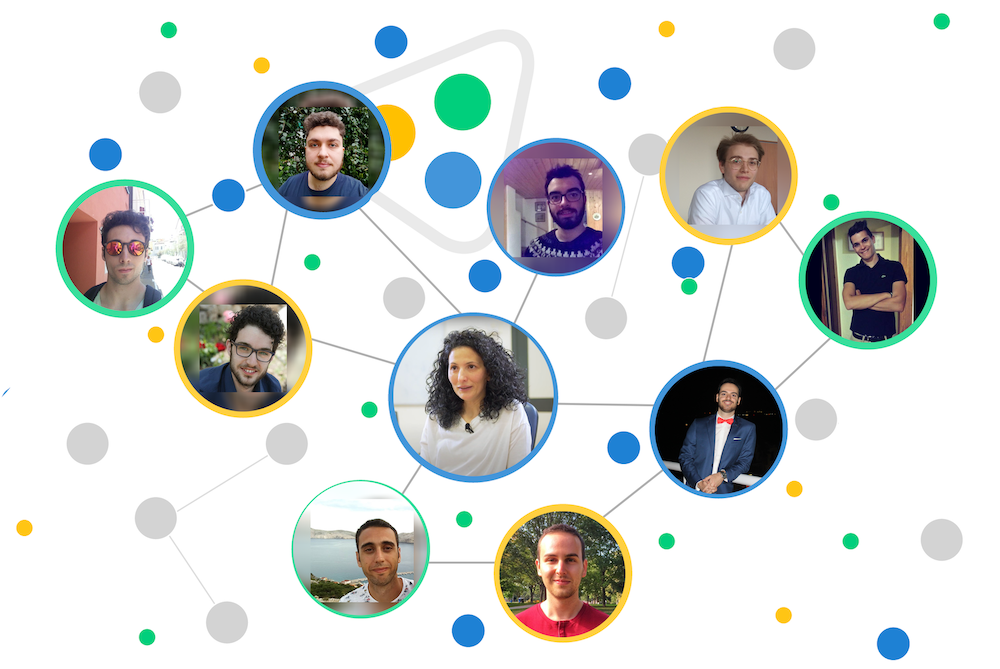
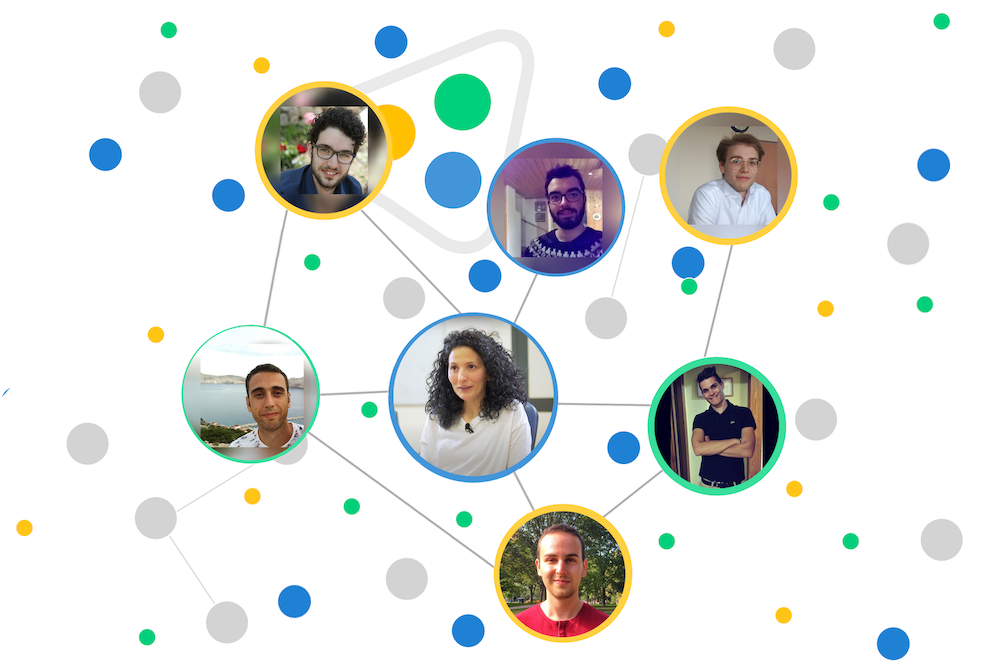
remove past members

diff --git a/pages/people.html b/pages/people.html
@@ -459,152 +459,6 @@
             </div>
           </div>
         </div>
-        <div class="col-12 col-md-6 col-lg-4">
-          <div class="card">
-            <img
-              src="../img/people/GCerri.JPG"
-              class="card-img-top"
-              alt="Member image"
-            />
-            <div class="card-body">
-              <div class="accordion" id="accordion8">
-                <div class="accordion-item">
-                  <h2 class="accordion-header" id="heading8">
-                    <button
-                      class="accordion-button collapsed"
-                      type="button"
-                      data-mdb-toggle="collapse"
-                      data-mdb-target="#collapse8"
-                      aria-expanded="true"
-                      aria-controls="collapse8"
-                    >
-                    <h2>Guglielmo Cerri</h2>
-                    Researcher
-                    </button>
-                  </h2>
-                  <div
-                    id="collapse8"
-                    class="accordion-collapse collapse hide"
-                    aria-labelledby="heading8"
-                    data-mdb-parent="#accordion8"
-                  >
-                    <div class="accordion-body">
-                      <a href="https://www.di.univr.it/?ent=persona&id=55826" 
-                      rel="noreferrer" target="_blank">
-                        Guglielmo Cerri
-                      </a> is a researcher at the University of Verona, 
-                      who joined InfOmics Lab in November 2020. His research 
-                      focuses on Imaging Genetics, specifically on finding new 
-                      potential genetic biomarkers for different neurodegenerative 
-                      diseases using omics data analysis and machine learning 
-                      methods. Currently, he participates to the TUBE-project, 
-                      sponsored by European Research Council. In his free time 
-                      he enjoys reading, playing chess, working out and, more 
-                      recently, photography.
-                    </div>
-                  </div>
-                </div>
-              </div>
-            </div>
-          </div>
-        </div>
-        <div class="col-12 col-md-6 col-lg-4">
-          <div class="card">
-            <img
-              src="../img/people/GMotterle.jpg"
-              class="card-img-top"
-              alt="Member image"
-            />
-            <div class="card-body">
-              <div class="accordion" id="accordion9">
-                <div class="accordion-item">
-                  <h2 class="accordion-header" id="heading9">
-                    <button
-                      class="accordion-button collapsed"
-                      type="button"
-                      data-mdb-toggle="collapse"
-                      data-mdb-target="#collapse9"
-                      aria-expanded="true"
-                      aria-controls="collapse9"
-                    >                    
-                    <h2>Giovanni Motterle</h2>
-                    Researcher
-                    </button>
-                  </h2>
-                  <div
-                    id="collapse9"
-                    class="accordion-collapse collapse hide"
-                    aria-labelledby="heading9"
-                    data-mdb-parent="#accordion9"
-                  >
-                    <div class="accordion-body">
-                      <a href="https://www.di.univr.it/?ent=persona&id=61826" 
-                      rel="noreferrer" target="_blank">
-                        Giovanni Motterle
-                      </a> joined the lab in November 2020 as a 
-                      research fellow. He received his bachelor's degree in 
-                      computer science from the University of Padova and his 
-                      master's degree in medical bioinformatics from the University 
-                      of Verona. His research activities are focused on the 
-                      development of computational methods for transcriptomics 
-                      and spatial transcriptomics data analysis. In his free 
-                      time he enjoys reading, gardening and hiking.
-                    </div>
-                  </div>
-                </div>
-              </div>
-            </div>
-          </div>
-        </div>
-        <div class="col-12 col-md-6 col-lg-4">
-          <div class="card">
-            <img
-              src="../img/people/LParmigiani.jpg"
-              class="card-img-top"
-              alt="Member image"
-            />
-            <div class="card-body">
-              <div class="accordion" id="accordion10">
-                <div class="accordion-item">
-                  <h2 class="accordion-header" id="heading10">
-                    <button
-                      class="accordion-button collapsed"
-                      type="button"
-                      data-mdb-toggle="collapse"
-                      data-mdb-target="#collapse10"
-                      aria-expanded="true"
-                      aria-controls="collapse10"
-                    >
-                    <h2>Luca Parmigiani</h2>
-                    Researcher
-                    </button>
-                  </h2>
-                  <div
-                    id="collapse10"
-                    class="accordion-collapse collapse hide"
-                    aria-labelledby="heading10"
-                    data-mdb-parent="#accordion10"
-                  >
-                    <div class="accordion-body">
-                      <a href="https://www.di.univr.it/?ent=persona&id=53344&lang=it" 
-                      rel="noreferrer" target="_blank">
-                        Luca Parmigiani
-                      </a> is currently a research fellow at the 
-                      Lymphoma Genomics group at IOR (Institute of Onchology 
-                      Research in Bellinzona, Switzerland), under the 
-                      supervision of Dr. Francesco Bertoni. He obtained both 
-                      his MSc in Medical Bioinformatics and his BSc in 
-                      Bioinformatics from the University of Verona. His 
-                      research is focused on data mining and integration of 
-                      single and multi-omics for Lymphoma treatment and prognosis.
-                    </div>
-                  </div>
-                </div>
-              </div>
-            </div>
-          </div>
-        </div>
-      </div>
       <div class="row other-members">
         <h3>Students</h3>
         <div class="col-12 col-md-6 col-lg-4 col-xl-3">
@@ -711,6 +565,15 @@
         </div>
         <div class="col-12 col-md-6 col-lg-4 col-xl-3">
           <p>Emiliano Maresi, Research Fellow<hr> </p>
+        </div>
+        <div class="col-12 col-md-6 col-lg-4 col-xl-3">
+          <p>Guglielmo Cerri, Research Fellow<hr> </p>
+        </div>
+        <div class="col-12 col-md-6 col-lg-4 col-xl-3">
+          <p>Giovanni Motterle, Research Fellow<hr> </p>
+        </div>
+        <div class="col-12 col-md-6 col-lg-4 col-xl-3">
+          <p>Luca Parmigiani, Research Fellow<hr> </p>
         </div>
       </div>
         
